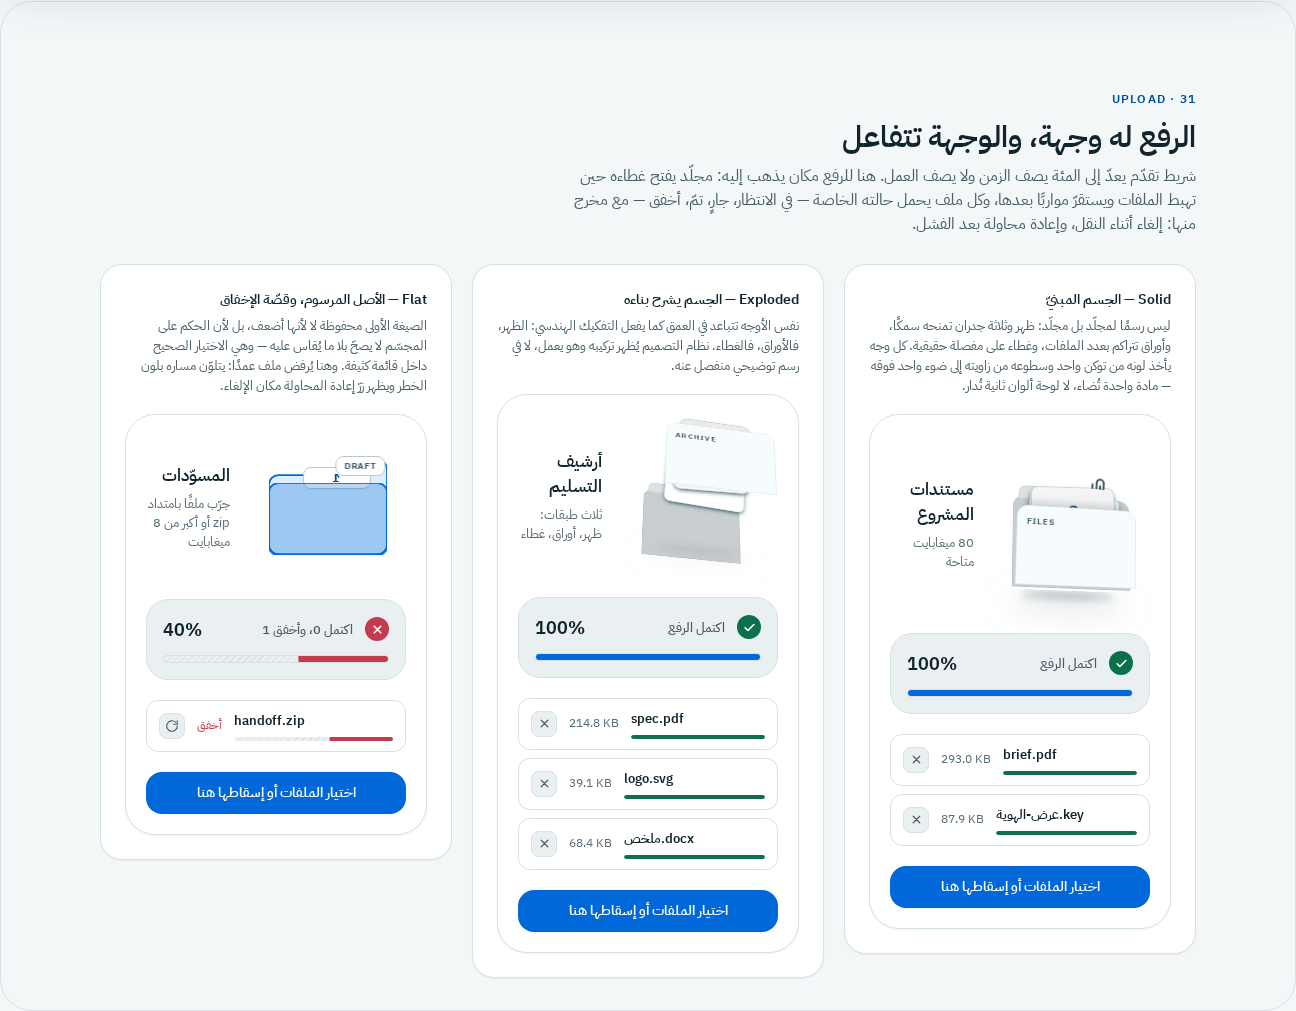
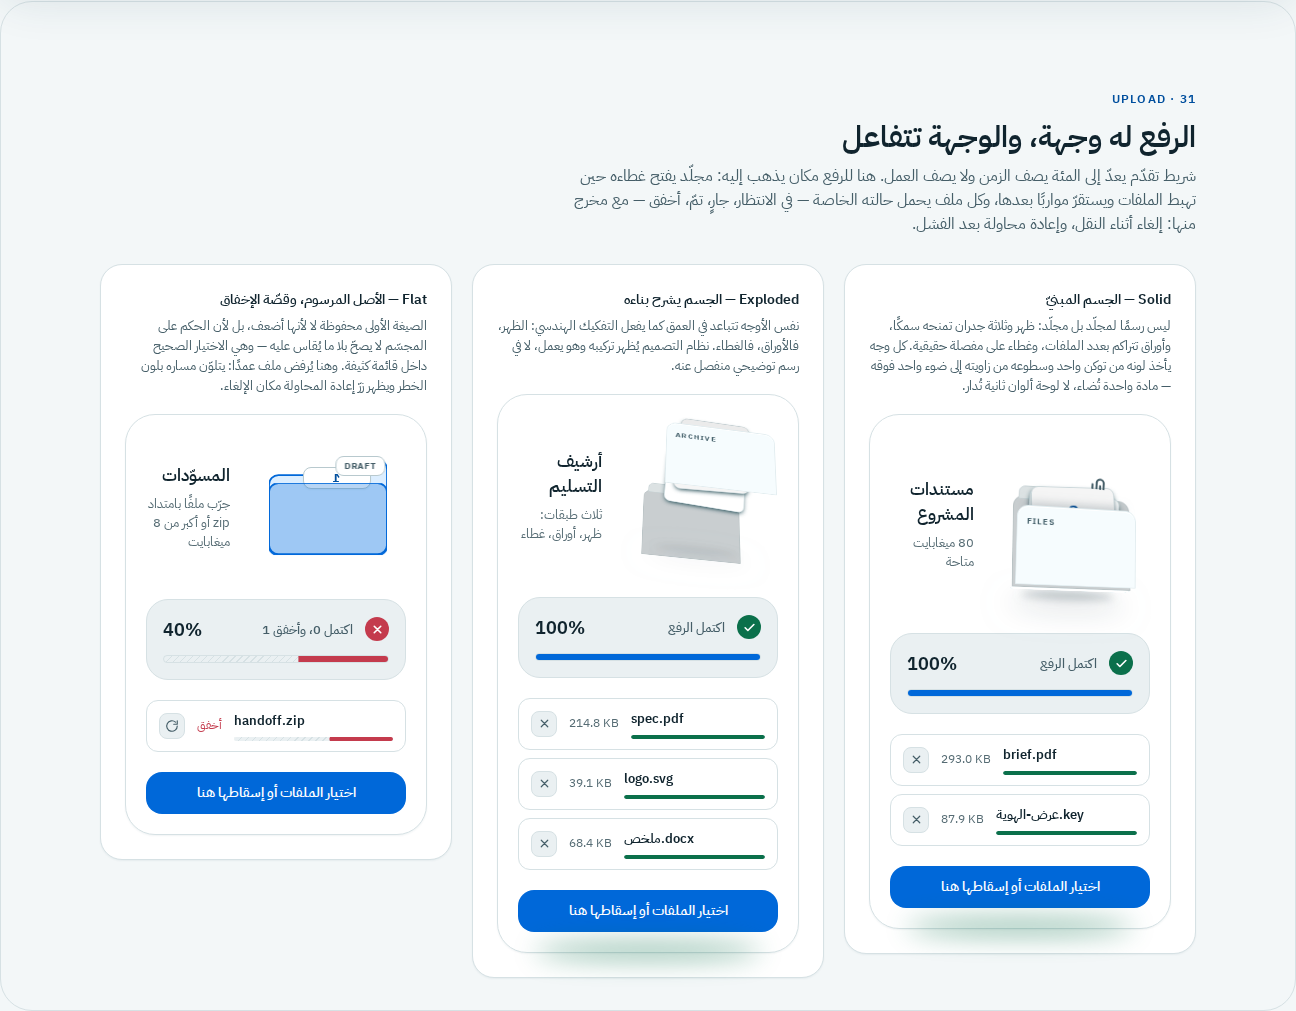
Analyse the fourth batch at technique level, and correct a rule it disproved
This batch asked to be read rather than mined, and it deserves that: five of
the thirteen images are not designs at all but arguments — the same interface
shown twice with red leader lines and a ✗ beside green leader lines and a ✓, a
nav bar in three numbered versions, a pricing card with its gradient button
next to its plain one. The work is annotated. So the analysis is written at the
level of technique, in design-system/VISUAL-ANALYSIS-04.md.

Eight patterns recur across the set, and the two that matter most are:

Light from inside the composition. Three references build the same thing: a
saturated band at one edge of a shape, glowing inward and spilling a little
past its own boundary. That is not the atmospheric wash this repository
refuses, and the difference is mechanical rather than aesthetic — a wash covers
the whole surface, has no source and never changes; this has a declared edge, a
falloff, and the colour of the state it reports. §12 admits it under exactly two
conditions: a stated position, and a state. A permanent glow is a wash wearing
a new coat.

Texture with structure rather than smooth gradient. Dither, dot matrix,
diagonal hatch in the page margins, dotted canvas under a flow. Across thirteen
images the good work never once uses a smooth gradient as a background. That
generalises §11 from progress tracks to any surface wanting a texture.

The batch also disproved one of my own rules. I refused "pastel icon tiles" in
[…]

Changed region(s): [[0.4012, 0.8892, 0.5864, 0.9812], [0.7099, 0.8586, 0.8642, 0.9505], [0.1543, 0.7666, 0.2778, 0.7972]]

diff --git a/src/madar/components/upload.tsx b/src/madar/components/upload.tsx
@@ -625,6 +625,9 @@ export function UploadFolder({
     ? items.reduce((sum, x) => sum + (x.phase === 'done' ? 1 : x.progress), 0) / items.length
     : 0;
 
+  // Everything has settled and nothing was rejected: the folder is filed.
+  const filed = !active && !failed && items.length > 0;
+
   // The lid answers the state: shut when empty, wide while landing, ajar after.
   const lid = !items.length ? 0 : active || over ? 1 : 0.42;
 
@@ -646,6 +649,7 @@ export function UploadFolder({
 
   return (
     <div
+      className={filed ? 'madar-leak' : undefined}
       onDragOver={(e) => { e.preventDefault(); setOver(true); }}
       onDragLeave={() => setOver(false)}
       onDrop={(e) => { e.preventDefault(); setOver(false); setTilt({ x: 0, y: 0 }); add(e.dataTransfer.files); }}
@@ -660,6 +664,10 @@ export function UploadFolder({
       }}
       onPointerLeave={() => setTilt({ x: 0, y: 0 })}
       style={{
+        // §12: the leak's colour is the state's colour, so it is set here with
+        // the state rather than defaulted in the stylesheet.
+        ...(filed ? { ['--madar-leak-color' as string]: 'var(--success)' } : null),
+        position: 'relative',
         display: 'flex', flexDirection: 'column', gap: 'var(--sp-5)',
         width: '100%', maxWidth: 460, padding: 'var(--sp-5)',
         borderRadius: 'var(--r-xl)',
@@ -670,7 +678,7 @@ export function UploadFolder({
       }}
     >
       <div style={{ display: 'flex', alignItems: 'center', gap: 'var(--sp-5)' }}>
-        <Folder open={lid} count={items.length} label={tabLabel} variant={variant} tilt={tilt} filed={!active && !failed && items.length > 0} />
+        <Folder open={lid} count={items.length} label={tabLabel} variant={variant} tilt={tilt} filed={filed} />
         <div style={{ minWidth: 0 }}>
           <h3 style={{ margin: 0, fontSize: 17, fontWeight: 600, color: 'var(--text)' }}>{title}</h3>
           <p style={{ margin: '6px 0 0', fontSize: 13, color: 'var(--text-3)' }}>{meta}</p>

diff --git a/src/madar/bridge.css b/src/madar/bridge.css
@@ -209,6 +209,25 @@
   );
 }
 
+/* Light from inside the composition. VISUAL-LAW.md §12: a saturated band at
+   one declared edge whose light spills a little past the shape. It differs
+   from the atmospheric wash we refuse in having a position, a falloff, and a
+   state — the colour is the state's colour, and with no state there is no
+   leak. Bound through a variable so the caller must name the colour it is
+   reporting rather than inheriting a decorative default. */
+.madar-leak::after {
+  content: "";
+  position: absolute;
+  inset-inline: 12%;
+  bottom: -7px;
+  height: 16px;
+  border-radius: 50%;
+  background: var(--madar-leak-color);
+  filter: blur(13px);
+  opacity: 0.5;
+  pointer-events: none;
+}
+
 /* A fill that grows from the reading edge. Scaling composites where animating
    width would lay out on every frame, and the origin has to follow direction
    because a progress bar that fills away from the text reads as draining. */

diff --git a/design-system/VISUAL-ANALYSIS-04.md b/design-system/VISUAL-ANALYSIS-04.md
@@ -1,0 +1,98 @@
+# تحليل الدفعة الرابعة — التقنية قبل الانطباع
+
+ثلاث عشرة لقطة، أغلبها ليس «إلهامًا» بل **عملًا مشروحًا**: نسخ متقابلة، وأسهم نقد، وإصدارات مرقّمة. هذا التحليل يقرأ *كيف* صُنعت، لا *كيف تبدو*.
+
+المرجع: قانون التكوين البصري في [`VISUAL-LAW.md`](./VISUAL-LAW.md).
+
+---
+
+## أوّلًا: الأنماط التقنية المتكرّرة — وهي جوهر الدفعة
+
+### 1. الضوء من داخل التكوين، لا من خلفه — «تسريب الضوء»
+
+في ثلاث لقطات (البطاقات السوداء، بطاقة التسعير الزرقاء، شريط الدعوة لـClientFlow) يتكرّر بناء واحد:
+
+**شريط مشبع عند حافة واحدة من الجسم، يتوهّج داخله ثم يتسرّب ضوؤه خارج حدوده.**
+
+هذا **ليس** الغسيل الجوّي المرفوض في المجموعة 06، والفرق تقني لا ذوقي:
+
+| الغسيل المرفوض | تسريب الضوء |
+|---|---|
+| يغطّي السطح كلّه | يسكن حافة واحدة معلومة |
+| بلا مصدر — مزاج | له مصدر وموضع وانحسار |
+| لونه اعتباطي | لونه لون الحالة التي يبلّغ عنها |
+| لا يتغيّر | يظهر ويختفي مع الحالة |
+
+وفي البطاقة السوداء الأولى يزيد التفصيل: داخل التوهّج **شبكة مرئية دقيقة** — الضوء يكشف بنية تحته بدل أن يغسلها.
+
+### 2. الملمس ذو البنية، لا التدرّج الناعم — يتكرّر في خمس لقطات
+
+نقطنة (dither)، ومصفوفة نقاط، وتخطيط قُطري في هوامش الصفحة، وشبكة منقّطة تحت مساحة التدفّق.
+
+**العمل الجيّد في هذه الدفعة لا يستعمل تدرّجًا ناعمًا مرّة واحدة كخلفية.** حين يريد ملمسًا يستعمل نمطًا له وحدة تتكرّر. وهذا يعمّم ما نفّذناه في §11 من شريط التقدّم: البنية تُقرأ، والغسيل يُشعر.
+
+### 3. الرسم التوضيحي = قصاصة من المنتج نفسه
+
+في ثلاث لقطات (شبكة مزايا FlyingPress، وأوراق Stillwork المدبّسة، وقوس بطاقات Loopcart) **لا توجد أيقونة واحدة تشرح ميزة**. كل بطاقة ميزة تحوي **قصاصة حقيقية من الواجهة**: مفتاح تبديل فعلي، حلقة قياس فعلية، إيصال فعلي — مقصوصة، ومائلة، ولها عمق.
+
+هذا انقلاب على العادة: بدل رسم يمثّل الميزة، **الميزة نفسها معروضة مقصوصة**. وهو يوافق §8 حرفيًّا: التفصيل يحمل معلومة لأنه *هو* المعلومة.
+
+### 4. النقد المرسوم كصيغة تسليم
+
+خمس لقطات من الثلاث عشرة ليست تصاميم بل **حُججًا بصرية**:
+
+- «vibe code» مقابل «revamp» جنبًا إلى جنب
+- EigenExplorer مرّتين: نسخة بخطوط حمراء تشير إلى العيوب ودائرة ✗، ونسخة بخطوط خضراء ودائرة ✓
+- شريط تنقّل بثلاث نسخ مرقّمة `v.1 / v.2 / v.3`
+- بطاقة تسعير بزرّ متدرّج مقابل زرّ أبيض
+
+**الخطوط الرفيعة ذات النهايات الدائرية التي تربط الملاحظة بموضعها** هي أداة الشرح، والقصاصات الركنية (corner brackets) تحدّد منطقة المحتوى. هذه لغة عرض كاملة، وهي أخت صيغة `exploded` عندنا.
+
+### 5. الخطّ الشعري هو وحدة البناء، لا البطاقة
+
+في لوحتَي CRM والحملات: **شريط إحصاءات واحد مقسوم بخطوط رأسية بعرض بكسل**، لا خمس بطاقات. وفي عقد التدفّق: البطاقة وعمود أرقامها يفصلهما خطّ واحد.
+
+القاعدة الضمنية: البطاقة تُستعمل حين يكون هناك **تجميع حقيقي**؛ وحين تكون العناصر متجاورة في مستوى واحد، يكفي خطّ.
+
+### 6. الضابط يعيش على الوصلة
+
+في لوحة الحملات، الوصلة بين خطوتَي البريد تحمل **مُحدِّدًا للمهلة**: `3 days` بسهمَي زيادة ونقصان، على الخطّ نفسه.
+
+المهلة خاصّية *للعلاقة* بين الخطوتين لا لأيّ منهما، فوُضعت على الوصلة. هذا §5 (التفصيل عند المَفصِل) و§8 (يحمل حالة) في عنصر واحد.
+
+### 7. اللون المربوط بتصنيف — وهذا يصحّح حكمًا سابقًا لي
+
+في أداة البحث، لكل نوع كتلة لونه: أسود للمحادثة، أخضر للنموذج الأوّلي، أزرق لمقياس الرأي، برتقالي للاختيار المتعدّد، بنفسجي للفرز.
+
+**رفضتُ سابقًا «بلاطات الأيقونات الباستيلية» ورفضي كان أوسع ممّا ينبغي.** ما يُرفض هو لونٌ لكل أيقونة **بلا رابط**؛ أمّا لون مربوط بتصنيف ثابت فهو **ترميز**: يتعلّمه المستخدم مرّة ويقرأ به القائمة بلا نصّ.
+
+الفرق الفاصل: هل يتكرّر اللون نفسه لنفس النوع في كل مكان؟ إن نعم فهو لغة، وإن لا فهو زينة.
+
+### 8. الظلّ الحادّ المُزاح على النصّ
+
+في لقطتَي «Ship clean code» وأرقام Loopcart: العنوان له **نسخة صلبة مزاحة** خلفه، لا ضبابة. مرّة أخرى — بنية لا نعومة.
+
+---
+
+## ثانيًا: جدول الأحكام
+
+| الفكرة | الحكم | لماذا |
+|---|---|---|
+| **تسريب الضوء من حافة** | **مأخوذ ونُفِّذ** — §12 | له مصدر وموضع وحالة. مقيَّد بأن يحمل حالة، وإلّا فهو المجموعة 06 بثوب جديد |
+| **الملمس ذو البنية** | **مأخوذ — وقد نُفِّذ** في §11 | يعمّم على أي سطح يحتاج ملمسًا |
+| **اللون المربوط بتصنيف** | **مأخوذ — ويصحّح رفضًا سابقًا** | انظر §13 |
+| **الرسم بقصاصة من المنتج** | **مأخوذ في المبدأ، ولا ينطبق هنا** | معرض نوفا يعرض المكوّنات **حيّة**؛ القصاصة الساكنة حلٌّ لمن لا يستطيع عرض الحيّ |
+| **النقد المرسوم بخطوط إشارة** | **مأخوذ في المبدأ — ومنفَّذ بصيغة أخرى** | `exploded` تفعل الشيء نفسه: تُظهر البنية على الجسم لا في رسم منفصل |
+| **الخطّ الشعري بدل البطاقة** | **مأخوذ كقاعدة تحرير** | يُطبَّق حين نبني شريط إحصاءات، لا يُقحم على قسم الرفع |
+| **الضابط على الوصلة** | **مأخوذ نظريًّا، مؤجَّل** | لا مكوّن تدفّق في نوفا اليوم. يُطبَّق يوم يُبنى |
+| **الظلّ الحادّ المُزاح** | **مؤجَّل** | يخدم عناوين تسويقية، ونوفا مكتبة منتج. لا يدخل بلا سطح يبرّره |
+| **الترقيم 01/02/03 تحت البطاقات** | **مرفوض — للمرة الثالثة** | المجموعة 30. ورودُه في مرجع جيّد لا يجعله جيّدًا |
+| **الحدود المتدرّجة حول بطاقة التسعير** | **مرفوض** | اللقطة نفسها تعرضه مقابل بديله الأبيض، والأبيض أقوى. المرجع يحكم على نفسه |
+
+---
+
+## ثالثًا: ما نُفِّذ من هذه الدفعة
+
+**تسريب الضوء عند اكتمال الرفع.** حين تستقرّ كل الملفات، تُضيء حافة البطاقة السفلية بلون النجاح ويتسرّب ضوؤها قليلًا خارجها. ويختفي حين تعود البطاقة إلى العمل أو يظهر إخفاق.
+
+التقييد الذي يجعله قانونًا لا زخرفة: **لا يوجد تسريب بلا حالة تُبلَّغ.** بوابة `G16` في `gates/07-visual-law.md` تتحقّق من أن الصنف لا يُستعمل إلا مقرونًا بحالة.

diff --git a/design-system/VISUAL-LAW.md b/design-system/VISUAL-LAW.md
@@ -124,6 +124,30 @@
 
 الفارق تقني وصريح: `repeating-linear-gradient` بحدود حادّة ولون توكن واحد **بنية**؛ والتدرّج الناعم متعدّد المحطّات **مزاج**. الماسح لا يميّز بينهما بالنمط، فسُجّل التمييز في الشيفرة بتوجيه `deslop-ignore` مع سببه — لا يُترك عددًا بلا تفسير.
 
+### 12. الضوء يجوز أن يأتي من داخل التكوين — بشرط أن يكون له مصدر وحالة
+
+من الدفعة الرابعة، والتحليل الكامل في [`VISUAL-ANALYSIS-04.md`](./VISUAL-ANALYSIS-04.md).
+
+تتكرّر في ثلاث مراجع بنيةٌ واحدة: **شريط مشبع عند حافة واحدة من الجسم، يتوهّج داخله ويتسرّب ضوؤه قليلًا خارج حدوده.** وهذا ليس الغسيل الجوّي المرفوض، والفرق تقني:
+
+| الغسيل المرفوض (06) | تسريب الضوء |
+|---|---|
+| يغطّي السطح كلّه | يسكن حافة واحدة معلومة |
+| بلا مصدر — مزاج | له مصدر وموضع وانحسار |
+| لونه اعتباطي | لونه لون الحالة التي يبلّغ عنها |
+| ثابت | يظهر ويختفي مع الحالة |
+
+> **القانون: يجوز لسطحٍ أن يُضيء من حافته، بشرطين لا ثالث لهما — أن يكون لضوئه موضع معلن، وأن يكون ظهورُه مقرونًا بحالة. تسريبٌ دائم ليس ضوءًا بل غسيلًا في ثوب جديد.**
+
+### 13. اللون المربوط بتصنيف ترميزٌ لا زينة — تصحيح لحكم سابق
+
+في الدفعة الأولى رفضتُ «بلاطات الأيقونات الباستيلية»، **وكان رفضي أوسع ممّا ينبغي**، وقد صحّحته الدفعة الرابعة.
+
+المرفوض: لونٌ لكل أيقونة **بلا رابط** — يقول إن اللون بلا معنى فيُفقده معناه في كل مكان آخر.
+المقبول: لونٌ مربوط بـ**تصنيف ثابت** — يتعلّمه المستخدم مرّة فيقرأ به القائمة قبل أن يقرأ نصّها.
+
+> **الاختبار الفاصل: هل يحمل النوعُ نفسه اللونَ نفسه في كل موضع من المنتج؟ إن نعم فهو لغة. وإن كان اللون يتغيّر أو يُوزَّع للتنويع فهو زينة.**
+
 ---
 
 ## ثالثًا: ما يظلّ ممنوعًا مهما بدا جميلًا
@@ -135,6 +159,8 @@
 - ظلّ ضخم بلا مصدر ضوء يبرّره (20)
 - رسم مسطّح بلا سمك ولا ظلّ ولا زاوية — وهو ما رُفض من التغذية نفسها
 - أي حلقة حركة لانهائية على مكوّن منتج (26 و«الطفو الدائم»)
+- توهّج أو تسريب ضوء **بلا حالة يبلّغ عنها** (§12 يجيزه مقيَّدًا، لا مطلقًا)
+- الترقيم `01/02/03` كسقالة تحت الأقسام — رُفض ثلاث مرّات في ثلاث دفعات
 
 ---
 

diff --git a/gates/07-visual-law.md b/gates/07-visual-law.md
@@ -82,3 +82,13 @@ so these gates cover both the written rule and its reference implementation in
   CHECK: node -e "const d=require('fs').readFileSync('design-system/VISUAL-LAW.md','utf8');const need=['الدفعة الثالثة','مُلاحَظ لا مأخوذ بعد','مؤجَّل بتحفّظ','الجزء الفارغ من المقياس'];const miss=need.filter(n=>!d.includes(n));console.log(miss.length?'BATCH3_UNRECORDED '+miss.join(','):'BATCH3_RECORDED')"
   EXPECT: BATCH3_RECORDED
   EVIDENCE: BATCH3_RECORDED
+
+- [x] G16: The light leak is bound to a state — the class and its colour arrive together, never as a default
+  CHECK: node -e 'const f=require("fs");const css=f.readFileSync("src/madar/bridge.css","utf8");const c=f.readFileSync("src/madar/components/upload.tsx","utf8");const noDefault=/\.madar-leak::after \{[\s\S]*?\}/.exec(css)[0].includes("var(--madar-leak-color)")&&!/--madar-leak-color:\s*var\(--accent\)/.test(css);const gated=/className=\{filed \? .madar-leak. : undefined\}/.test(c);const coloured=/filed \? \{ \[.--madar-leak-color/.test(c);console.log(noDefault&&gated&&coloured?"LEAK_IS_STATE":"LEAK_IS_DECOR "+[noDefault,gated,coloured].join())'
+  EXPECT: LEAK_IS_STATE
+  EVIDENCE: LEAK_IS_STATE
+
+- [x] G17: The fourth batch is analysed at technique level, and the over-broad refusal it corrected is recorded as a correction
+  CHECK: node -e "const f=require('fs');const a=f.readFileSync('design-system/VISUAL-ANALYSIS-04.md','utf8');const l=f.readFileSync('design-system/VISUAL-LAW.md','utf8');const need=['تسريب الضوء','الملمس ذو البنية','قصاصة من المنتج','النقد المرسوم','الضابط يعيش على الوصلة'];const miss=need.filter(n=>!a.includes(n));const fixed=l.includes('تصحيح لحكم سابق')&&l.includes('هل يحمل النوعُ نفسه اللونَ نفسه');console.log(miss.length||!fixed?'BATCH4_INCOMPLETE '+miss.join(',')+' fixed='+fixed:'BATCH4_ANALYSED')"
+  EXPECT: BATCH4_ANALYSED
+  EVIDENCE: BATCH4_ANALYSED
